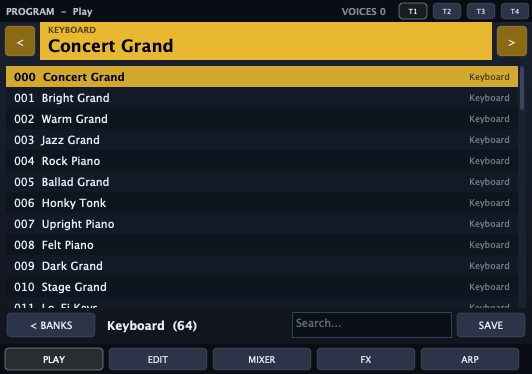
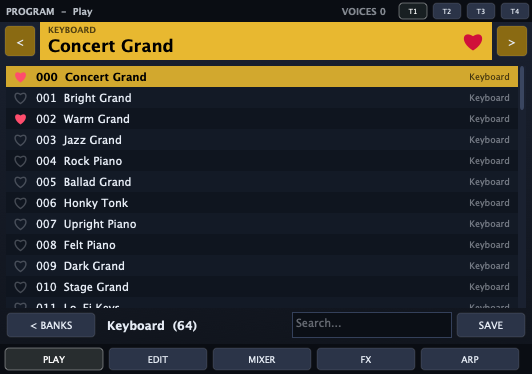
Add favourites: heart toggle on name bar and list rows, Favorites bank
Likes are stored in favorites.json in the user preset folder and shared by all instances.

diff --git a/Source/ui/Screen.cpp b/Source/ui/Screen.cpp
@@ -91,12 +91,14 @@ public:
             b->onClick = [this, i] { openCategory (i); };
             addAndMakeVisible (b);
         }
-        for (auto* b : { &userBtn, &saveBtn, &initBtn, &backBtn })
+        for (auto* b : { &userBtn, &favBtn, &saveBtn, &initBtn, &backBtn })
         {
             styleScreenButton (*b);
             addAndMakeVisible (b);
         }
+        favBtn.setColour (juce::TextButton::buttonColourId, juce::Colour (0xff8a2040));
         userBtn.onClick = [this] { openCategory (16); };
+        favBtn.onClick = [this] { openCategory (17); };
         initBtn.onClick = [this] { proc.presets.initProgram(); };
         backBtn.onClick = [this] { showGrid(); };
         search.setTextToShowWhenEmpty ("Search...", Colours::screenText.withAlpha (0.4f));
@@ -113,7 +115,8 @@ public:
         showGrid();
     }
 
-    std::function<void()> onSave;
+    std::function<void()> onSave, onFavoritesChanged;
+    static constexpr int kHeartW = 26;
 
     void refresh()
     {
@@ -124,6 +127,8 @@ public:
             const int n = (int) (combi ? proc.presets.combisInCategory (cats[i]) : proc.presets.programsInCategory (cats[i])).size();
             tiles[i]->setButtonText (cats[i] + "\n" + juce::String (n));
         }
+        favBtn.setButtonText (juce::String::fromUTF8 ("\xe2\x99\xa5 FAVORITES (")
+                              + juce::String (proc.presets.numFavorites (combi ? Mode::Combi : Mode::Program)) + ")");
         if (list.isVisible()) rebuild();
     }
 
@@ -131,7 +136,7 @@ public:
     {
         category = cat;
         for (auto* t : tiles) t->setVisible (false);
-        userBtn.setVisible (false); initBtn.setVisible (false);
+        userBtn.setVisible (false); initBtn.setVisible (false); favBtn.setVisible (false);
         list.setVisible (true); backBtn.setVisible (true); catLabel.setVisible (true);
         rebuild();
         resized();
@@ -142,7 +147,7 @@ public:
         category = -1;
         search.clear();
         for (auto* t : tiles) t->setVisible (true);
-        userBtn.setVisible (true); initBtn.setVisible (true);
+        userBtn.setVisible (true); initBtn.setVisible (true); favBtn.setVisible (true);
         list.setVisible (false); backBtn.setVisible (false); catLabel.setVisible (false);
         refresh();
         resized();
@@ -161,6 +166,8 @@ public:
             initBtn.setBounds (bottom.removeFromLeft (70));
             bottom.removeFromLeft (4);
             userBtn.setBounds (bottom.removeFromLeft (70));
+            bottom.removeFromLeft (4);
+            favBtn.setBounds (bottom.removeFromLeft (130));
             const int w = r.getWidth() / 4, h = r.getHeight() / 4;
             for (int i = 0; i < 16; ++i)
                 tiles[i]->setBounds (r.getX() + (i % 4) * w, r.getY() + (i / 4) * h, w - 3, h - 3);
@@ -188,18 +195,32 @@ public:
         g.setColour (current ? Colours::accent.withAlpha (0.9f) : selected ? Colours::screenAcc.withAlpha (0.5f)
                      : (row % 2 ? juce::Colour (0xff131a26) : juce::Colour (0xff0f151f)));
         g.fillRect (0, 0, w, h);
+        const bool fav = proc.presets.isFavorite (combi ? Mode::Combi : Mode::Program, name);
+        paintHeart (g, { 8.0f, (float) h * 0.5f - 6.0f, 13.0f, 12.0f }, fav,
+                    fav ? juce::Colour (0xffff4d6d) : (current ? juce::Colours::black.withAlpha (0.35f) : Colours::screenText.withAlpha (0.25f)));
         g.setColour (current ? juce::Colours::black : Colours::screenText);
         g.setFont (font (13.0f, current));
-        g.drawText (juce::String (idx).paddedLeft ('0', 3) + "  " + name, 8, 0, w - 140, h, juce::Justification::centredLeft);
+        g.drawText (juce::String (idx).paddedLeft ('0', 3) + "  " + name, kHeartW + 4, 0, w - 140 - kHeartW, h, juce::Justification::centredLeft);
         g.setFont (font (10.5f));
         g.setColour (current ? juce::Colours::black.withAlpha (0.7f) : Colours::screenText.withAlpha (0.45f));
         g.drawText (cat, w - 136, 0, 128, h, juce::Justification::centredRight);
     }
 
-    void listBoxItemClicked (int row, const juce::MouseEvent&) override
+    void listBoxItemClicked (int row, const juce::MouseEvent& e) override
     {
         if (row < 0 || row >= (int) items.size()) return;
         const int idx = items[(size_t) row];
+        if (e.x < kHeartW)
+        {
+            // click on the heart: like / unlike without loading
+            const bool combi = proc.mode.load() == (int) Mode::Combi;
+            const auto& name = combi ? proc.presets.combis()[(size_t) idx].name : proc.presets.programs()[(size_t) idx].name;
+            proc.presets.toggleFavorite (combi ? Mode::Combi : Mode::Program, name);
+            if (category == 17) rebuild();
+            if (onFavoritesChanged) onFavoritesChanged();
+            list.repaint();
+            return;
+        }
         if (proc.mode.load() == (int) Mode::Combi) proc.loadCombi (idx);
         else proc.loadProgram (idx);
         list.repaint();
@@ -221,7 +242,7 @@ private:
                 if (name.containsIgnoreCase (q)) items.push_back (i);
             }
             catLabel.setText ("Search: " + q, juce::dontSendNotification);
-            if (category < 0) { for (auto* t : tiles) t->setVisible (false); list.setVisible (true); backBtn.setVisible (true); catLabel.setVisible (true); category = 99; resized(); }
+            if (category < 0) openCategory (99);
         }
         else if (category >= 0 && category < 16)
         {
@@ -233,13 +254,19 @@ private:
             items = combi ? proc.presets.combisInCategory ("User") : proc.presets.programsInCategory ("User");
             catLabel.setText ("User (" + juce::String ((int) items.size()) + ")", juce::dontSendNotification);
         }
+        else if (category == 17)
+        {
+            items = combi ? proc.presets.combisInCategory ("Favorites") : proc.presets.programsInCategory ("Favorites");
+            catLabel.setText (juce::String::fromUTF8 ("\xe2\x99\xa5 Favorites (") + juce::String ((int) items.size()) + ")",
+                              juce::dontSendNotification);
+        }
         list.updateContent();
         list.repaint();
     }
 
     RecklessChronosProcessor& proc;
     juce::OwnedArray<juce::TextButton> tiles;
-    juce::TextButton userBtn { "USER" }, saveBtn { "SAVE" }, initBtn { "INIT" }, backBtn { "< BANKS" };
+    juce::TextButton userBtn { "USER" }, favBtn { "FAVORITES" }, saveBtn { "SAVE" }, initBtn { "INIT" }, backBtn { "< BANKS" };
     juce::TextEditor search;
     juce::ListBox list;
     juce::Label catLabel;
@@ -496,6 +523,10 @@ private:
                 sub.addItem (i + 1, proc.presets.programs()[(size_t) i].name);
             menu.addSubMenu (cats[c], sub);
         }
+        juce::PopupMenu favs;
+        for (int i : proc.presets.programsInCategory ("Favorites"))
+            favs.addItem (i + 1, proc.presets.programs()[(size_t) i].name);
+        menu.addSubMenu (juce::String::fromUTF8 ("\xe2\x99\xa5 Favorites"), favs);
         juce::PopupMenu user;
         for (int i : proc.presets.programsInCategory ("User"))
             user.addItem (i + 1, proc.presets.programs()[(size_t) i].name);
@@ -709,6 +740,7 @@ Screen::Screen (RecklessChronosProcessor& p) : proc (p)
     fx = std::make_unique<FxPage> (p);
     arp = std::make_unique<ArpPage> (p);
     play->saveBtn.onClick = [this] { openSaveDialog(); };
+    play->onFavoritesChanged = [this] { play->refresh(); repaint (nameArea); };
     for (juce::Component* c : { (juce::Component*) play.get(), (juce::Component*) edit.get(), (juce::Component*) mixer.get(),
                                 (juce::Component*) fx.get(), (juce::Component*) arp.get() })
         addChildComponent (c);
@@ -849,12 +881,23 @@ void Screen::timerCallback()
         shownVoices = v;
         repaint (headerArea.getUnion (nameArea));
     }
+    // likes can change in other instances / pages
+    if (++favPoll % 24 == 0) repaint (nameArea);
     edit->poll();
     for (int t = 0; t < kNumTimbres; ++t)
         timbreButtons[t]->setEnabled (m == (int) Mode::Combi || t == 0);
 }
 
-void Screen::mouseUp (const juce::MouseEvent&) {}
+void Screen::mouseUp (const juce::MouseEvent& e)
+{
+    if (heartArea.contains (e.position) && proc.currentPresetName.isNotEmpty())
+    {
+        const auto m = proc.mode.load() == (int) Mode::Combi ? Mode::Combi : Mode::Program;
+        proc.presets.toggleFavorite (m, proc.currentPresetName);
+        play->refresh();
+        repaint (nameArea);
+    }
+}
 
 void Screen::paint (juce::Graphics& g)
 {
@@ -888,8 +931,11 @@ void Screen::paint (juce::Graphics& g)
     g.drawText (cat.toUpperCase(), nb.reduced (8.0f, 2.0f), juce::Justification::topLeft);
     g.setColour (juce::Colours::black);
     g.setFont (font (20.0f, true));
-    g.drawFittedText (proc.currentPresetName, nb.reduced (8.0f, 2.0f).withTrimmedTop (9.0f).toNearestInt(),
+    heartArea = juce::Rectangle<float> (nb.getRight() - 34.0f, nb.getY() + 4.0f, 30.0f, nb.getHeight() - 8.0f);
+    g.drawFittedText (proc.currentPresetName, nb.reduced (8.0f, 2.0f).withTrimmedTop (9.0f).withTrimmedRight (36.0f).toNearestInt(),
                       juce::Justification::centredLeft, 1);
+    const bool fav = proc.presets.isFavorite (combi ? Mode::Combi : Mode::Program, proc.currentPresetName);
+    paintHeart (g, heartArea.withSizeKeepingCentre (22.0f, 19.0f), fav, fav ? juce::Colour (0xffd0103a) : juce::Colours::black.withAlpha (0.55f));
     // tab bar background
     g.setColour (juce::Colour (0xff0a0d13));
     g.fillRect (tabArea);

diff --git a/Source/presets/PresetManager.cpp b/Source/presets/PresetManager.cpp
@@ -31,6 +31,51 @@ PresetManager::PresetManager (juce::AudioProcessorValueTreeState& state) : apvts
 {
     loadFactory();
     scanUserPresets();
+    reloadFavorites();
+}
+
+static juce::String favKey (Mode mode, const juce::String& name)
+{
+    return (mode == Mode::Combi ? "C|" : "P|") + name;
+}
+
+void PresetManager::reloadFavorites()
+{
+    favorites.clear();
+    const auto v = juce::JSON::parse (favoritesFile());
+    if (auto* arr = v.getArray())
+        for (auto& item : *arr)
+            favorites.addIfNotAlreadyThere (item.toString());
+}
+
+void PresetManager::saveFavorites() const
+{
+    if (! userFolder().createDirectory()) return;
+    juce::Array<juce::var> arr;
+    for (auto& f : favorites) arr.add (f);
+    favoritesFile().replaceWithText (juce::JSON::toString (juce::var (arr)));
+}
+
+bool PresetManager::isFavorite (Mode mode, const juce::String& name) const
+{
+    return favorites.contains (favKey (mode, name));
+}
+
+void PresetManager::toggleFavorite (Mode mode, const juce::String& name)
+{
+    reloadFavorites(); // pick up likes made in other plugin instances
+    const auto key = favKey (mode, name);
+    if (favorites.contains (key)) favorites.removeString (key);
+    else favorites.add (key);
+    saveFavorites();
+}
+
+int PresetManager::numFavorites (Mode mode) const
+{
+    const auto prefix = mode == Mode::Combi ? "C|" : "P|";
+    int n = 0;
+    for (auto& f : favorites) n += f.startsWith (prefix) ? 1 : 0;
+    return n;
 }
 
 const juce::StringArray& PresetManager::programCategories()
@@ -203,6 +248,13 @@ void PresetManager::scanUserPresets()
 std::vector<int> PresetManager::programsInCategory (const juce::String& cat) const
 {
     std::vector<int> r;
+    if (cat == "Favorites")
+    {
+        for (auto& f : favorites)
+            if (f.startsWith ("P|"))
+                if (const int i = findProgram (f.substring (2)); i >= 0) r.push_back (i);
+        return r;
+    }
     for (int i = 0; i < (int) progs.size(); ++i)
         if ((cat == "User" && progs[(size_t) i].user) || (cat != "User" && ! progs[(size_t) i].user && progs[(size_t) i].category == cat))
             r.push_back (i);
@@ -212,6 +264,14 @@ std::vector<int> PresetManager::programsInCategory (const juce::String& cat) con
 std::vector<int> PresetManager::combisInCategory (const juce::String& cat) const
 {
     std::vector<int> r;
+    if (cat == "Favorites")
+    {
+        for (auto& f : favorites)
+            if (f.startsWith ("C|"))
+                for (int i = 0; i < (int) combs.size(); ++i)
+                    if (combs[(size_t) i].name == f.substring (2)) { r.push_back (i); break; }
+        return r;
+    }
     for (int i = 0; i < (int) combs.size(); ++i)
         if ((cat == "User" && combs[(size_t) i].user) || (cat != "User" && ! combs[(size_t) i].user && combs[(size_t) i].category == cat))
             r.push_back (i);

diff --git a/tests/RenderTests.cpp b/tests/RenderTests.cpp
@@ -197,7 +197,16 @@ int snapshot (const juce::String& prefix, const juce::String& what)
     if (auto* b = findButton (ed.get(), "FILTER / AMP")) { b->triggerClick(); save ("edit_filter"); }
     if (auto* b = findButton (ed.get(), "LFO / PITCH")) { b->triggerClick(); save ("edit_lfo"); }
     if (auto* pl = findButton (ed.get(), "PLAY")) { pl->triggerClick(); juce::MessageManager::getInstance()->runDispatchLoopUntil (50); }
-    if (auto* k = findButton (ed.get(), "KEYS")) { k->triggerClick(); save ("list"); }
+    {
+        const auto n0 = p.presets.programs()[0].name, n2 = p.presets.programs()[2].name;
+        const bool w0 = p.presets.isFavorite (rc::Mode::Program, n0), w2 = p.presets.isFavorite (rc::Mode::Program, n2);
+        if (! w0) p.presets.toggleFavorite (rc::Mode::Program, n0);
+        if (! w2) p.presets.toggleFavorite (rc::Mode::Program, n2);
+        if (auto* k = findButton (ed.get(), "KEYS")) { k->triggerClick(); save ("list"); }
+        if (auto* b = findButton (ed.get(), "< BANKS")) { b->triggerClick(); save ("grid_fav"); }
+        if (! w0) p.presets.toggleFavorite (rc::Mode::Program, n0);
+        if (! w2) p.presets.toggleFavorite (rc::Mode::Program, n2);
+    }
     ed->setSize (840, 350);
     save ("small");
     return 0;
@@ -347,6 +356,20 @@ static int runTests (int argc, char** argv)
         double ms = 0;
         if (! playOne (p, "C" + juce::String (i).paddedLeft ('0', 3) + " " + combs[(size_t) i].name, true, juce::File(), ms)) ++failures;
         if (ms > worst) { worst = ms; worstName = combs[(size_t) i].name; }
+    }
+
+    // favourites: like -> appears in the Favorites bank -> unlike (restores the user's file)
+    {
+        auto& pm = p.presets;
+        const auto name = progs[3].name;
+        const bool was = pm.isFavorite (rc::Mode::Program, name);
+        if (! was) pm.toggleFavorite (rc::Mode::Program, name);
+        const auto fav = pm.programsInCategory ("Favorites");
+        const bool listed = std::find (fav.begin(), fav.end(), 3) != fav.end();
+        if (! was) pm.toggleFavorite (rc::Mode::Program, name);
+        const bool restored = pm.isFavorite (rc::Mode::Program, name) == was;
+        std::cout << "Favorites: " << (listed && restored ? "ok" : "FAIL") << std::endl;
+        if (! (listed && restored)) ++failures;
     }
 
     // state round trip

diff --git a/Source/ui/Widgets.cpp b/Source/ui/Widgets.cpp
@@ -328,6 +328,25 @@ void Keyboard::drawBlackNote (int, juce::Graphics& g, juce::Rectangle<float> are
 }
 
 //==============================================================================
+juce::Path heartPath (juce::Rectangle<float> r)
+{
+    const float x = r.getX(), y = r.getY(), w = r.getWidth(), h = r.getHeight();
+    juce::Path p;
+    p.startNewSubPath (x + w * 0.5f, y + h);
+    p.cubicTo (x - w * 0.15f, y + h * 0.55f, x + w * 0.05f, y - h * 0.1f, x + w * 0.5f, y + h * 0.25f);
+    p.cubicTo (x + w * 0.95f, y - h * 0.1f, x + w * 1.15f, y + h * 0.55f, x + w * 0.5f, y + h);
+    p.closeSubPath();
+    return p;
+}
+
+void paintHeart (juce::Graphics& g, juce::Rectangle<float> r, bool filled, juce::Colour colour)
+{
+    const auto p = heartPath (r);
+    g.setColour (colour);
+    if (filled) g.fillPath (p);
+    else g.strokePath (p, juce::PathStrokeType (1.4f));
+}
+
 void paintWood (juce::Graphics& g, juce::Rectangle<float> r, bool leftSide)
 {
     juce::Path shape;

diff --git a/Source/presets/PresetManager.h b/Source/presets/PresetManager.h
@@ -63,6 +63,12 @@ public:
     void applyCombi (int index);
     void initProgram();
 
+    // Favourites ("liked" presets), shared by all instances through a file in the user folder
+    bool isFavorite (Mode mode, const juce::String& name) const;
+    void toggleFavorite (Mode mode, const juce::String& name);
+    void reloadFavorites();
+    int numFavorites (Mode mode) const;
+
     bool saveCurrent (Mode mode, const juce::String& name, const juce::String& category, juce::String& error);
 
     // Unknown parameter names met while parsing (should be empty)
@@ -87,5 +93,8 @@ private:
     std::vector<ProgramPreset> progs;
     std::vector<CombiPreset> combs;
     juce::StringArray errors;
+    juce::StringArray favorites; // "P|name" / "C|name", in the order they were liked
+    juce::File favoritesFile() const { return userFolder().getChildFile ("favorites.json"); }
+    void saveFavorites() const;
 };
 } // namespace rc

diff --git a/Source/ui/Widgets.h b/Source/ui/Widgets.h
@@ -128,6 +128,10 @@ private:
                         juce::Colour noteFillColour) override;
 };
 
+// Heart icon for favourites
+juce::Path heartPath (juce::Rectangle<float> r);
+void paintHeart (juce::Graphics&, juce::Rectangle<float> r, bool filled, juce::Colour colour);
+
 // Painting helpers
 void paintWood (juce::Graphics&, juce::Rectangle<float> r, bool leftSide);
 void paintBrushedPanel (juce::Graphics&, juce::Rectangle<float> r);

diff --git a/Source/ui/Screen.h b/Source/ui/Screen.h
@@ -48,6 +48,8 @@ private:
     juce::String shownName;
     int shownMode = -1, shownVoices = -1;
     juce::Rectangle<int> headerArea, nameArea, tabArea, contentArea;
+    juce::Rectangle<float> heartArea;
+    int favPoll = 0;
     std::unique_ptr<juce::AlertWindow> saveWindow;
 };
 } // namespace rc::ui

diff --git a/README.md b/README.md
@@ -38,7 +38,7 @@ Le design reprend le panneau de la workstation : joues en bois, potards et fader
 
 - **Taille réglable** : tire le coin en bas à droite (le ratio est conservé) ou utilise le bouton **SIZE**, de 50 % à 200 %. La taille est mémorisée avec le projet.
 - **Écran** : 5 pages.
-  - **PLAY** : banques par catégorie, liste et recherche, sauvegarde.
+  - **PLAY** : banques par catégorie, liste et recherche, favoris ♥, sauvegarde.
   - **EDIT** : moteur, filtre et amplitude, LFO et hauteur.
   - **MIXER** : 4 timbres.
   - **FX** : effets d'insertion et effets master.
@@ -57,6 +57,8 @@ Le design reprend le panneau de la workstation : joues en bois, potards et fader
 | Keyboard, Organ, Bell/Mallet, Strings, Vocal/Airy, Brass, Woodwind/Reed, Guitar/Plucked, Bass, Slow Synth, Fast Synth, Lead Synth, Motion Synth, SE, Hit/Arpg, Drums | Keyboard, Organ, Bell/Mallet, Strings, Pads, Brass/Reed, Orchestral, World, Guitar, Bass Splits, Synth, Lead, Motion, SE/Hits, Arpeggio, Drums/Splits |
 
 Les presets sont générés par [`tools/preset_gen.py`](tools/preset_gen.py) à partir d'environ 250 recettes écrites à la main. Chaque recette est déclinée en variantes (Hall, Room, Chorus, Drive, Glide, Dark, Bright…), et les niveaux sont équilibrés automatiquement à partir d'une mesure de loudness.
+
+**Favoris** : clique sur le **♥** dans la barre du nom ou devant un preset dans une liste. La banque **♥ FAVORITES** de la page PLAY rassemble tous tes presets likés (Programs et Combis séparément), dans l'ordre où tu les as likés. On les retrouve aussi dans le menu d'assignation du MIXER. Les likes sont enregistrés dans `favorites.json`, dans le dossier utilisateur ci-dessous, et partagés entre toutes les instances du plugin.
 
 Tes propres presets (bouton **SAVE**) sont enregistrés ici :
 - macOS : `~/Library/Audio/Presets/Reckless/Reckless Chronos 2/`
